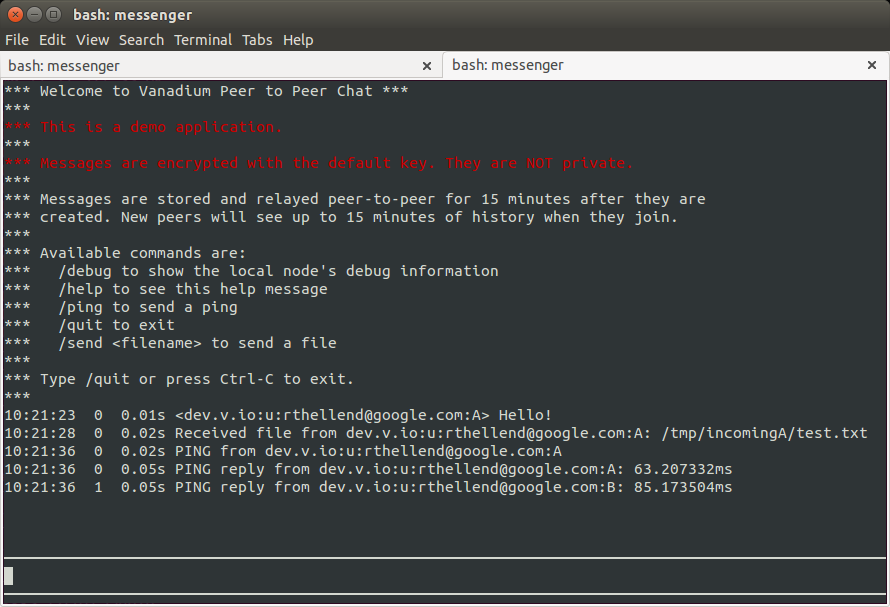
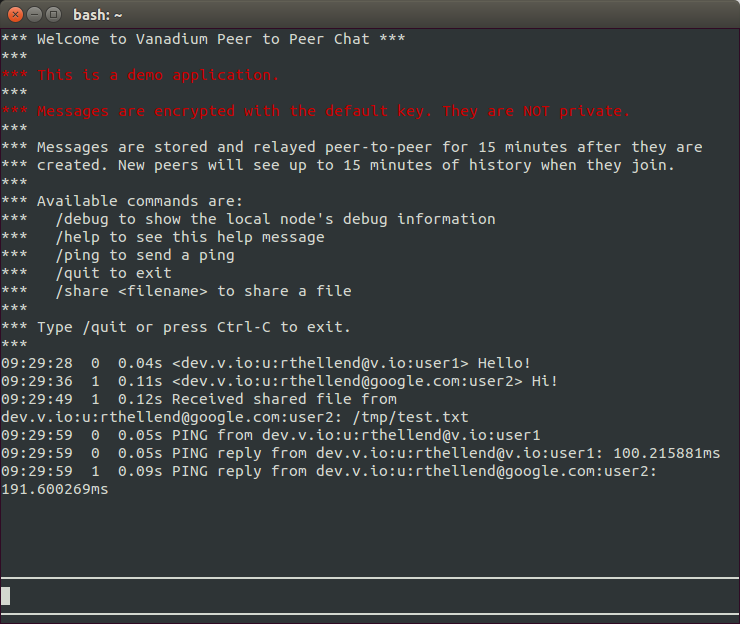
TBR: rename /send to /share
The word "share" seems more appropriate.

Changed region(s): [[0.0, 0.0, 1.0, 1.0], [0.6216, 0.1779, 0.6838, 0.2076]]

diff --git a/vmsg/chat.go b/vmsg/chat.go
@@ -139,7 +139,7 @@ func runChat(ctx *context.T, env *cmdline.Env, args []string) error {
 		print("***   /help to see this help message")
 		print("***   /ping to send a ping")
 		print("***   /quit to exit")
-		print("***   /send <filename> to send a file")
+		print("***   /share <filename> to share a file")
 		print("***")
 		print("*** Type /quit or press Ctrl-C to exit.")
 		print("***")
@@ -177,8 +177,9 @@ func runChat(ctx *context.T, env *cmdline.Env, args []string) error {
 				mtxt = fmt.Sprintf("\x01PING %s %d", pingId, time.Now().UnixNano())
 			case mtxt == "/quit":
 				return gocui.Quit
-			case strings.HasPrefix(mtxt, "/send"):
+			case strings.HasPrefix(mtxt, "/share"):
 				fname = strings.TrimSpace(mtxt[5:])
+				printf("### Sharing %s", fname)
 				mtxt = ""
 			case strings.HasPrefix(mtxt, "/"):
 				printf("### Unknown command %s", mtxt)
@@ -233,7 +234,7 @@ func runChat(ctx *context.T, env *cmdline.Env, args []string) error {
 				}
 			}
 			if filename != "" {
-				fmt.Fprintf(&buf, "Received file from %s: %s", msg.SenderBlessings, filename)
+				fmt.Fprintf(&buf, "Received shared file from %s: %s", msg.SenderBlessings, filename)
 			}
 			print(buf.String())
 		}
